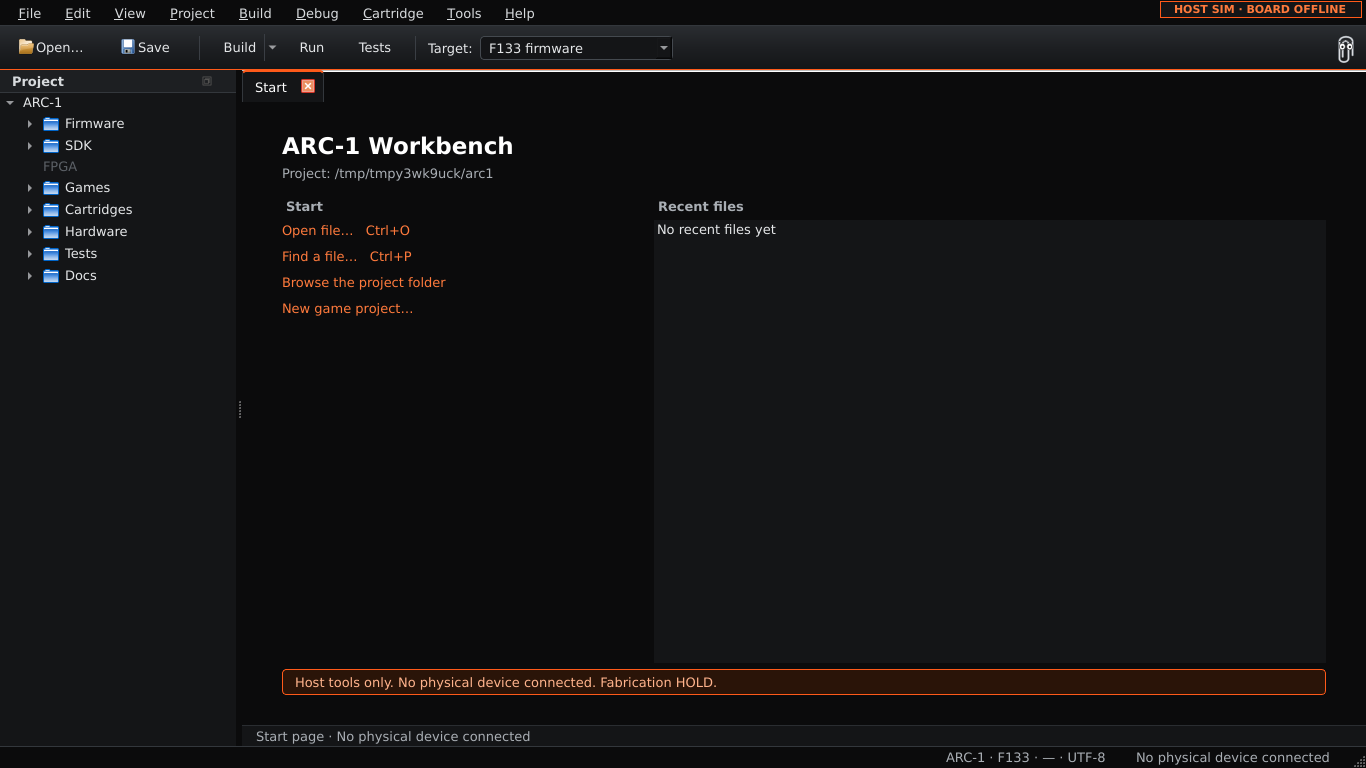
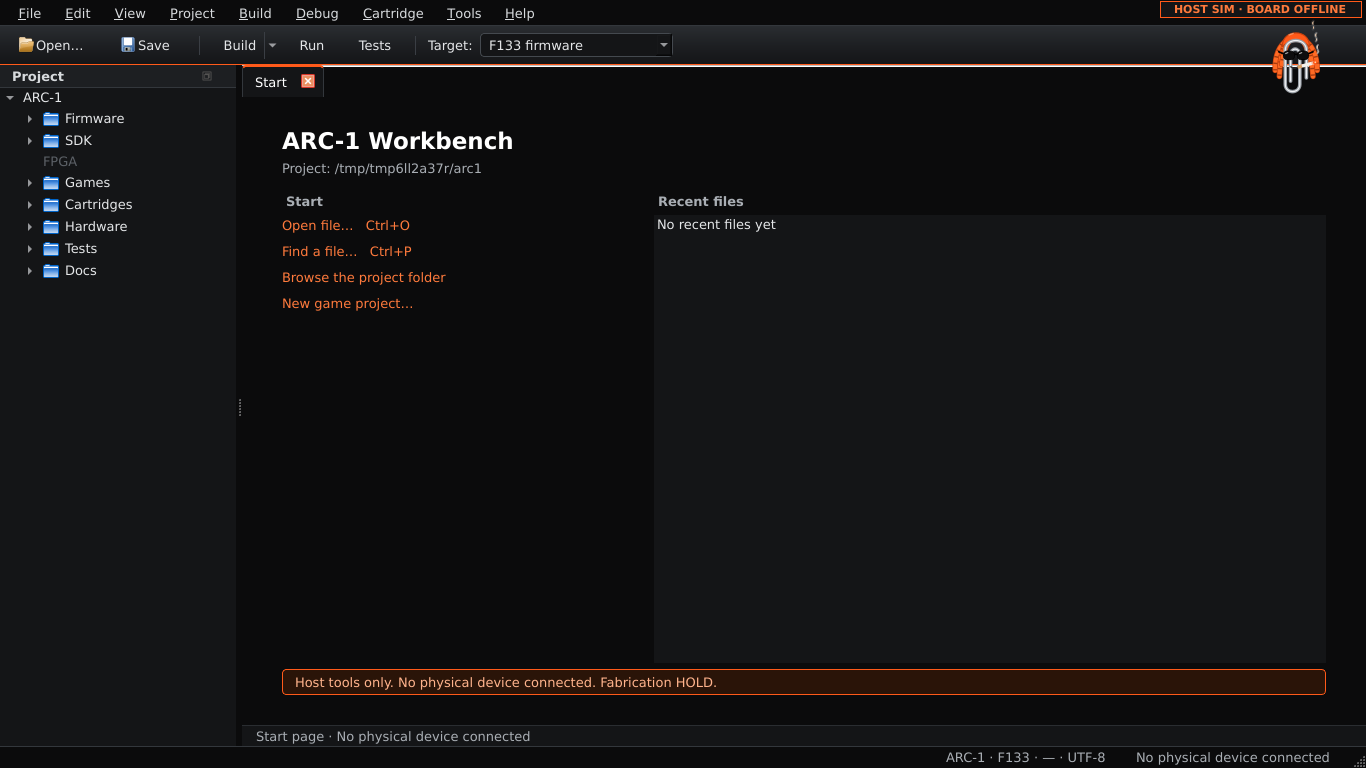
Workbench R10.6: bigger Clip with orange dreadlocks, sunglasses and a cigarette
- ClipAssistant redrawn (QPainter, no image files): orange dreadlocks,
  black sunglasses, cigarette with a glowing ember and slowly drifting
  smoke (repaints every 110 ms only while visible).
- 72x84 px instead of 28x32: hangs from the toolbar's right end over the
  window, so the toolbar keeps its height; masked so only Clip takes
  clicks; stays above docks that open later.
- Screenshots regenerated; character sheet in docs/assets.

Claude-Session: https://claude.ai/code/session_017dYL6B8MeBETxdbg6zxw8a

diff --git a/arc1/workbench/qt_app.py b/arc1/workbench/qt_app.py
@@ -13,6 +13,7 @@ and never shows a connected device.
 """
 from __future__ import annotations
 
+import math
 import os
 from pathlib import Path
 import sys
@@ -20,7 +21,7 @@ import tempfile
 import threading
 import time
 
-from PySide6.QtCore import QDir, QEvent, QPoint, QPropertyAnimation, QProcess, QRect, QRectF, QSize, Qt, QTimer, QUrl, Signal
+from PySide6.QtCore import QDir, QEvent, QPoint, QPointF, QPropertyAnimation, QProcess, QRect, QRectF, QSize, Qt, QTimer, QUrl, Signal
 from PySide6.QtGui import (QAction, QActionGroup, QBrush, QColor, QDesktopServices, QFont, QFontDatabase, QIcon, QImage, QKeySequence,
                            QPainter, QPainterPath, QPalette, QPen, QPixmap, QRegion, QTextDocument, QTextCursor, QTextFormat)
 from PySide6.QtWidgets import (
@@ -535,20 +536,31 @@ EVIDENCE_TEXT = {'NONE': 'not measured', 'DESIGN': 'design figure', 'RTL_SIM': '
 
 
 class ClipAssistant(QWidget):
-    """Clip, the paperclip helper in the toolbar's empty right-hand corner.
+    """Clip, the paperclip helper in the toolbar's empty right-hand corner: orange
+    dreadlocks, black sunglasses and a cigarette whose smoke drifts up slowly.
 
     Clicking shows or hides Clip's chat bubbles (ClipOverlay).
     """
     clicked = Signal()
+    GRID = (60, 70)                                # drawing units; scaled to the widget
 
-    def __init__(self, parent=None):
+    def __init__(self, parent=None, size=(46, 54)):
         super().__init__(parent)
         self.setObjectName('ClipAssistant')
-        self.setFixedSize(28, 32)                  # drawn on a 34 x 40 grid, scaled to toolbar height
+        self.setFixedSize(*size)
         self.setCursor(Qt.PointingHandCursor)
-        self.setToolTip('Clip: chat with ChatGPT about your work')
+        self.setToolTip('Clip: chat about your work')
         self.setAccessibleName('Clip chat')
         self.hover = False
+        self.phase = 0.0
+        self.smoke = QTimer(self)
+        self.smoke.timeout.connect(self._drift)
+        self.smoke.start(110)
+
+    def _drift(self):
+        if self.isVisible():
+            self.phase = (self.phase + 0.035) % 1.0
+            self.update()
 
     def enterEvent(self, event):
         self.hover = True
@@ -561,37 +573,157 @@ class ClipAssistant(QWidget):
     def mousePressEvent(self, event):
         self.clicked.emit()
 
+    def follow(self, slot):
+        """Floats over the main window, centred on a toolbar slot and hanging below the
+        toolbar, so Clip can be bigger than the toolbar is tall. Clicks pass through
+        everywhere except Clip himself (mask)."""
+        self.slot = slot
+        self.queued = False
+        slot.installEventFilter(self)
+        self.parentWidget().installEventFilter(self)   # docks opening later must not cover Clip
+        gw, gh = self.GRID
+        sx, sy = self.width() / gw, self.height() / gh
+        self.setMask(QRegion(QRect(int(9 * sx), int(4 * sy), int(46 * sx), int(66 * sy))))
+        QTimer.singleShot(0, self._place)
+
+    def eventFilter(self, obj, event):
+        if obj is getattr(self, 'slot', None):
+            if event.type() in (QEvent.Move, QEvent.Resize, QEvent.Show):
+                self._queue()
+            elif event.type() == QEvent.Hide:
+                self.hide()
+        elif obj is self.parentWidget() and event.type() in (QEvent.LayoutRequest, QEvent.Resize, QEvent.ChildAdded):
+            self._queue()
+        return super().eventFilter(obj, event)
+
+    def _queue(self):
+        if not self.queued:
+            self.queued = True
+            QTimer.singleShot(0, self._place)
+
+    def _place(self):
+        self.queued = False
+        slot, window = self.slot, self.parentWidget()
+        if not slot.isVisible():
+            self.hide()
+            return
+        corner = slot.mapTo(window, QPoint(0, 0))
+        bar = slot.parentWidget().mapTo(window, QPoint(0, 0))
+        top = bar.y() - int(10 * self.height() / self.GRID[1])  # crown level with the top of the toolbar
+        self.move(corner.x() + (slot.width() - self.width()) // 2, top)
+        self.show()
+        self.raise_()
+
+    @staticmethod
+    def _wire():
+        """The paperclip: one steel wire, two loops."""
+        w = QPainterPath()
+        w.moveTo(26.3, 55.9)
+        w.lineTo(26.3, 34.3)
+        w.cubicTo(26.3, 27.5, 34.0, 27.5, 34.0, 34.3)
+        w.lineTo(34.0, 58.6)
+        w.cubicTo(34.0, 66.7, 21.9, 66.7, 21.9, 58.6)
+        w.lineTo(21.9, 30.2)
+        w.cubicTo(21.9, 19.4, 39.5, 19.4, 39.5, 30.2)
+        w.lineTo(39.5, 53.2)
+        return w
+
+    @staticmethod
+    def _locks():
+        """Dreadlocks: (start, control 1, control 2, end) from the crown down both sides."""
+        return [((23.5, 22.0), (17.0, 26.0), (13.0, 34.0), (13.5, 47.0)),
+                ((25.5, 19.5), (19.0, 26.0), (17.5, 38.0), (17.0, 52.0)),
+                ((28.5, 18.0), (23.0, 24.0), (20.0, 32.0), (19.0, 42.0)),
+                ((33.0, 18.0), (39.0, 24.0), (42.0, 32.0), (43.0, 42.0)),
+                ((36.0, 19.5), (42.5, 26.0), (44.0, 38.0), (45.0, 52.0)),
+                ((38.0, 22.0), (44.5, 26.0), (48.5, 34.0), (48.5, 47.0))]
+
     def paintEvent(self, event):
         p = QPainter(self)
         p.setRenderHint(QPainter.Antialiasing)
-        p.scale(self.width() / 34, self.height() / 40)
+        gw, gh = self.GRID
+        p.scale(self.width() / gw, self.height() / gh)
         if self.hover:
             p.setPen(Qt.NoPen)
-            p.setBrush(QColor(255, 90, 26, 60))
-            p.drawRoundedRect(QRectF(1, 1, 32, 38), 6, 6)
-        wire = QPainterPath()                      # an original paperclip, drawn as one wire
-        wire.moveTo(13, 31)
-        wire.lineTo(13, 15)
-        wire.cubicTo(13, 10, 20, 10, 20, 15)
-        wire.lineTo(20, 33)
-        wire.cubicTo(20, 39, 9, 39, 9, 33)
-        wire.lineTo(9, 12)
-        wire.cubicTo(9, 4, 25, 4, 25, 12)
-        wire.lineTo(25, 29)
+            p.setBrush(QColor(255, 90, 26, 55))
+            p.drawRoundedRect(QRectF(1, 1, gw - 2, gh - 2), 9, 9)
+
+        # Dreadlocks behind the head: orange ropes with darker bands, then the crown.
+        for (s, c1, c2, e) in self._locks():
+            lock = QPainterPath()
+            lock.moveTo(*s)
+            lock.cubicTo(*c1, *c2, *e)
+            p.setBrush(Qt.NoBrush)
+            p.setPen(QPen(QColor('#c8400c'), 4.6, Qt.SolidLine, Qt.RoundCap, Qt.RoundJoin))
+            p.drawPath(lock)
+            p.setPen(QPen(QColor('#ff6a24'), 3.4, Qt.SolidLine, Qt.RoundCap, Qt.RoundJoin))
+            p.drawPath(lock)
+            bands = QPen(QColor(120, 36, 6, 170), 3.4, Qt.CustomDashLine, Qt.FlatCap)
+            bands.setDashPattern([0.35, 1.25])
+            p.setPen(bands)
+            p.drawPath(lock)
+        crown = QPainterPath()
+        crown.moveTo(19.5, 27.0)
+        crown.cubicTo(19.0, 12.0, 42.5, 12.0, 42.0, 27.0)
+        crown.cubicTo(37.0, 21.5, 25.0, 21.5, 19.5, 27.0)
+        p.setPen(QPen(QColor('#c8400c'), 1.0))
+        p.setBrush(QColor('#ff5a1a'))
+        p.drawPath(crown)
+        p.setPen(QPen(QColor(255, 200, 160, 150), 1.0, Qt.SolidLine, Qt.RoundCap))
+        p.drawLine(QPointF(25.0, 17.5), QPointF(28.5, 16.2))     # shine on the crown
+
+        # The paperclip itself.
+        wire = self._wire()
         p.setBrush(Qt.NoBrush)
-        p.setPen(QPen(QColor('#9aa0a7'), 2.6, Qt.SolidLine, Qt.RoundCap, Qt.RoundJoin))
+        p.setPen(QPen(QColor('#9aa0a7'), 3.0, Qt.SolidLine, Qt.RoundCap, Qt.RoundJoin))
         p.drawPath(wire)
-        p.setPen(QPen(QColor('#f1f2f4'), 0.9, Qt.SolidLine, Qt.RoundCap))
-        p.drawPath(wire)                           # highlight along the wire
-        for x in (12.5, 21.5):                     # eyes and brows
-            p.setPen(QPen(QColor('#3b3b3b'), 0.8))
-            p.setBrush(QColor('white'))
-            p.drawEllipse(QRectF(x - 3.6, 14, 7.2, 8.4))
-            p.setPen(Qt.NoPen)
-            p.setBrush(QColor('#1d1d1d'))
-            p.drawEllipse(QRectF(x - 1.2 + (0.8 if self.hover else 0), 17, 2.8, 3.2))
-            p.setPen(QPen(QColor('#3b3b3b'), 1.2, Qt.SolidLine, Qt.RoundCap))
-            p.drawLine(QPoint(int(x - 3), 12 if x < 15 else 11), QPoint(int(x + 3), 11 if x < 15 else 12))
+        p.setPen(QPen(QColor('#f1f2f4'), 1.0, Qt.SolidLine, Qt.RoundCap))
+        p.drawPath(wire)
+
+        # Black sunglasses with a glint.
+        p.setPen(QPen(QColor('#000000'), 1.4, Qt.SolidLine, Qt.RoundCap))
+        p.drawLine(QPointF(29.2, 33.6), QPointF(32.2, 33.6))      # bridge
+        p.drawLine(QPointF(20.0, 33.0), QPointF(16.5, 31.5))      # arms
+        p.drawLine(QPointF(41.4, 33.0), QPointF(45.0, 31.5))
+        for x in (20.4, 32.0):
+            lens = QPainterPath()
+            lens.addRoundedRect(QRectF(x, 31.0, 9.2, 7.0), 2.6, 2.6)
+            p.setPen(QPen(QColor('#000000'), 0.8))
+            p.setBrush(QColor('#0d0d0e'))
+            p.drawPath(lens)
+            p.setPen(QPen(QColor(255, 255, 255, 170), 0.9, Qt.SolidLine, Qt.RoundCap))
+            p.drawLine(QPointF(x + 1.8, 33.0), QPointF(x + 3.6, 32.2))
+
+        # A relaxed half smile and the cigarette.
+        p.setPen(QPen(QColor('#2b2d30'), 1.2, Qt.SolidLine, Qt.RoundCap))
+        p.setBrush(Qt.NoBrush)
+        smile = QPainterPath()
+        smile.moveTo(26.5, 44.0)
+        smile.cubicTo(28.5, 45.6, 31.0, 45.4, 33.0, 43.8)
+        p.drawPath(smile)
+        p.setPen(QPen(QColor('#d9a066'), 2.8, Qt.SolidLine, Qt.FlatCap))           # filter
+        p.drawLine(QPointF(32.2, 44.4), QPointF(35.8, 43.4))
+        p.setPen(QPen(QColor('#f4f1ec'), 2.8, Qt.SolidLine, Qt.FlatCap))           # paper
+        p.drawLine(QPointF(35.8, 43.4), QPointF(46.0, 40.6))
+        glow = 0.75 + 0.25 * math.sin(self.phase * 2 * math.pi * 3)
+        p.setPen(Qt.NoPen)
+        p.setBrush(QColor(255, 90, 26, int(110 * glow)))
+        p.drawEllipse(QPointF(46.6, 40.4), 3.0, 3.0)                              # ember glow
+        p.setBrush(QColor('#ff5a1a'))
+        p.drawEllipse(QPointF(46.6, 40.4), 1.6, 1.6)
+        p.setBrush(QColor('#ffd2a6'))
+        p.drawEllipse(QPointF(46.9, 40.2), 0.7, 0.7)
+
+        # Smoke: three curls drifting up and fading.
+        for k in range(3):
+            f = (self.phase + k / 3.0) % 1.0
+            x = 47.0 + 2.2 * math.sin((f + k) * 2 * math.pi)
+            y = 37.0 - f * 30.0
+            curl = QPainterPath()
+            curl.moveTo(x, y)
+            curl.cubicTo(x + 3.0, y - 2.5, x - 3.0, y - 4.5, x + 0.5, y - 7.0)
+            p.setPen(QPen(QColor(205, 208, 212, int(170 * (1.0 - f))), 1.3 + f, Qt.SolidLine, Qt.RoundCap))
+            p.drawPath(curl)
         p.end()
 
 
@@ -1509,9 +1641,15 @@ class WorkbenchWindow(QMainWindow):
         spacer = QWidget()
         spacer.setSizePolicy(QSizePolicy.Expanding, QSizePolicy.Preferred)
         tb.addWidget(spacer)
-        self.clip = ClipAssistant()
+        slot = QWidget()                           # Clip hangs from this slot, larger than the toolbar
+        slot.setFixedSize(76, 24)
+        tb.addWidget(slot)
+        tail = QWidget()                           # keeps Clip clear of dock title buttons below
+        tail.setFixedWidth(24)
+        tb.addWidget(tail)
+        self.clip = ClipAssistant(self, size=(72, 84))
         self.clip.clicked.connect(self.open_clip)
-        tb.addWidget(self.clip)
+        self.clip.follow(slot)
         self.clip_overlay = None
         self.toolbar = tb
 

diff --git a/arc1/PATCH_NOTES_R10.md b/arc1/PATCH_NOTES_R10.md
@@ -1,3 +1,18 @@
+# R10.6 — Clip's new look
+
+- **Look:** Clip now has orange dreadlocks, black sunglasses and a
+  cigarette. The ember glows and the smoke drifts up slowly (one small
+  repaint every 110 ms, only while Clip is visible).
+  ![Clip](docs/assets/clip_character.png)
+- **Size:** Clip is bigger, 72 × 84 px instead of 28 × 32.
+  - He hangs from the right end of the toolbar, so the toolbar keeps its
+    normal height.
+  - A mask makes only Clip himself catch clicks.
+  - He stays above docks that open later, and clear of their title buttons.
+- **Code:** `ClipAssistant` in `workbench/qt_app.py`, drawn with QPainter;
+  no image files.
+- **Screenshots:** regenerated with `tests/capture_r10_screens.py`.
+
 # R10.5 — ARC-1 colours everywhere; Clip uses Google Gemini (free key)
 
 - **ARC-1 colours** (owner decision): the whole UI now uses the logo's
